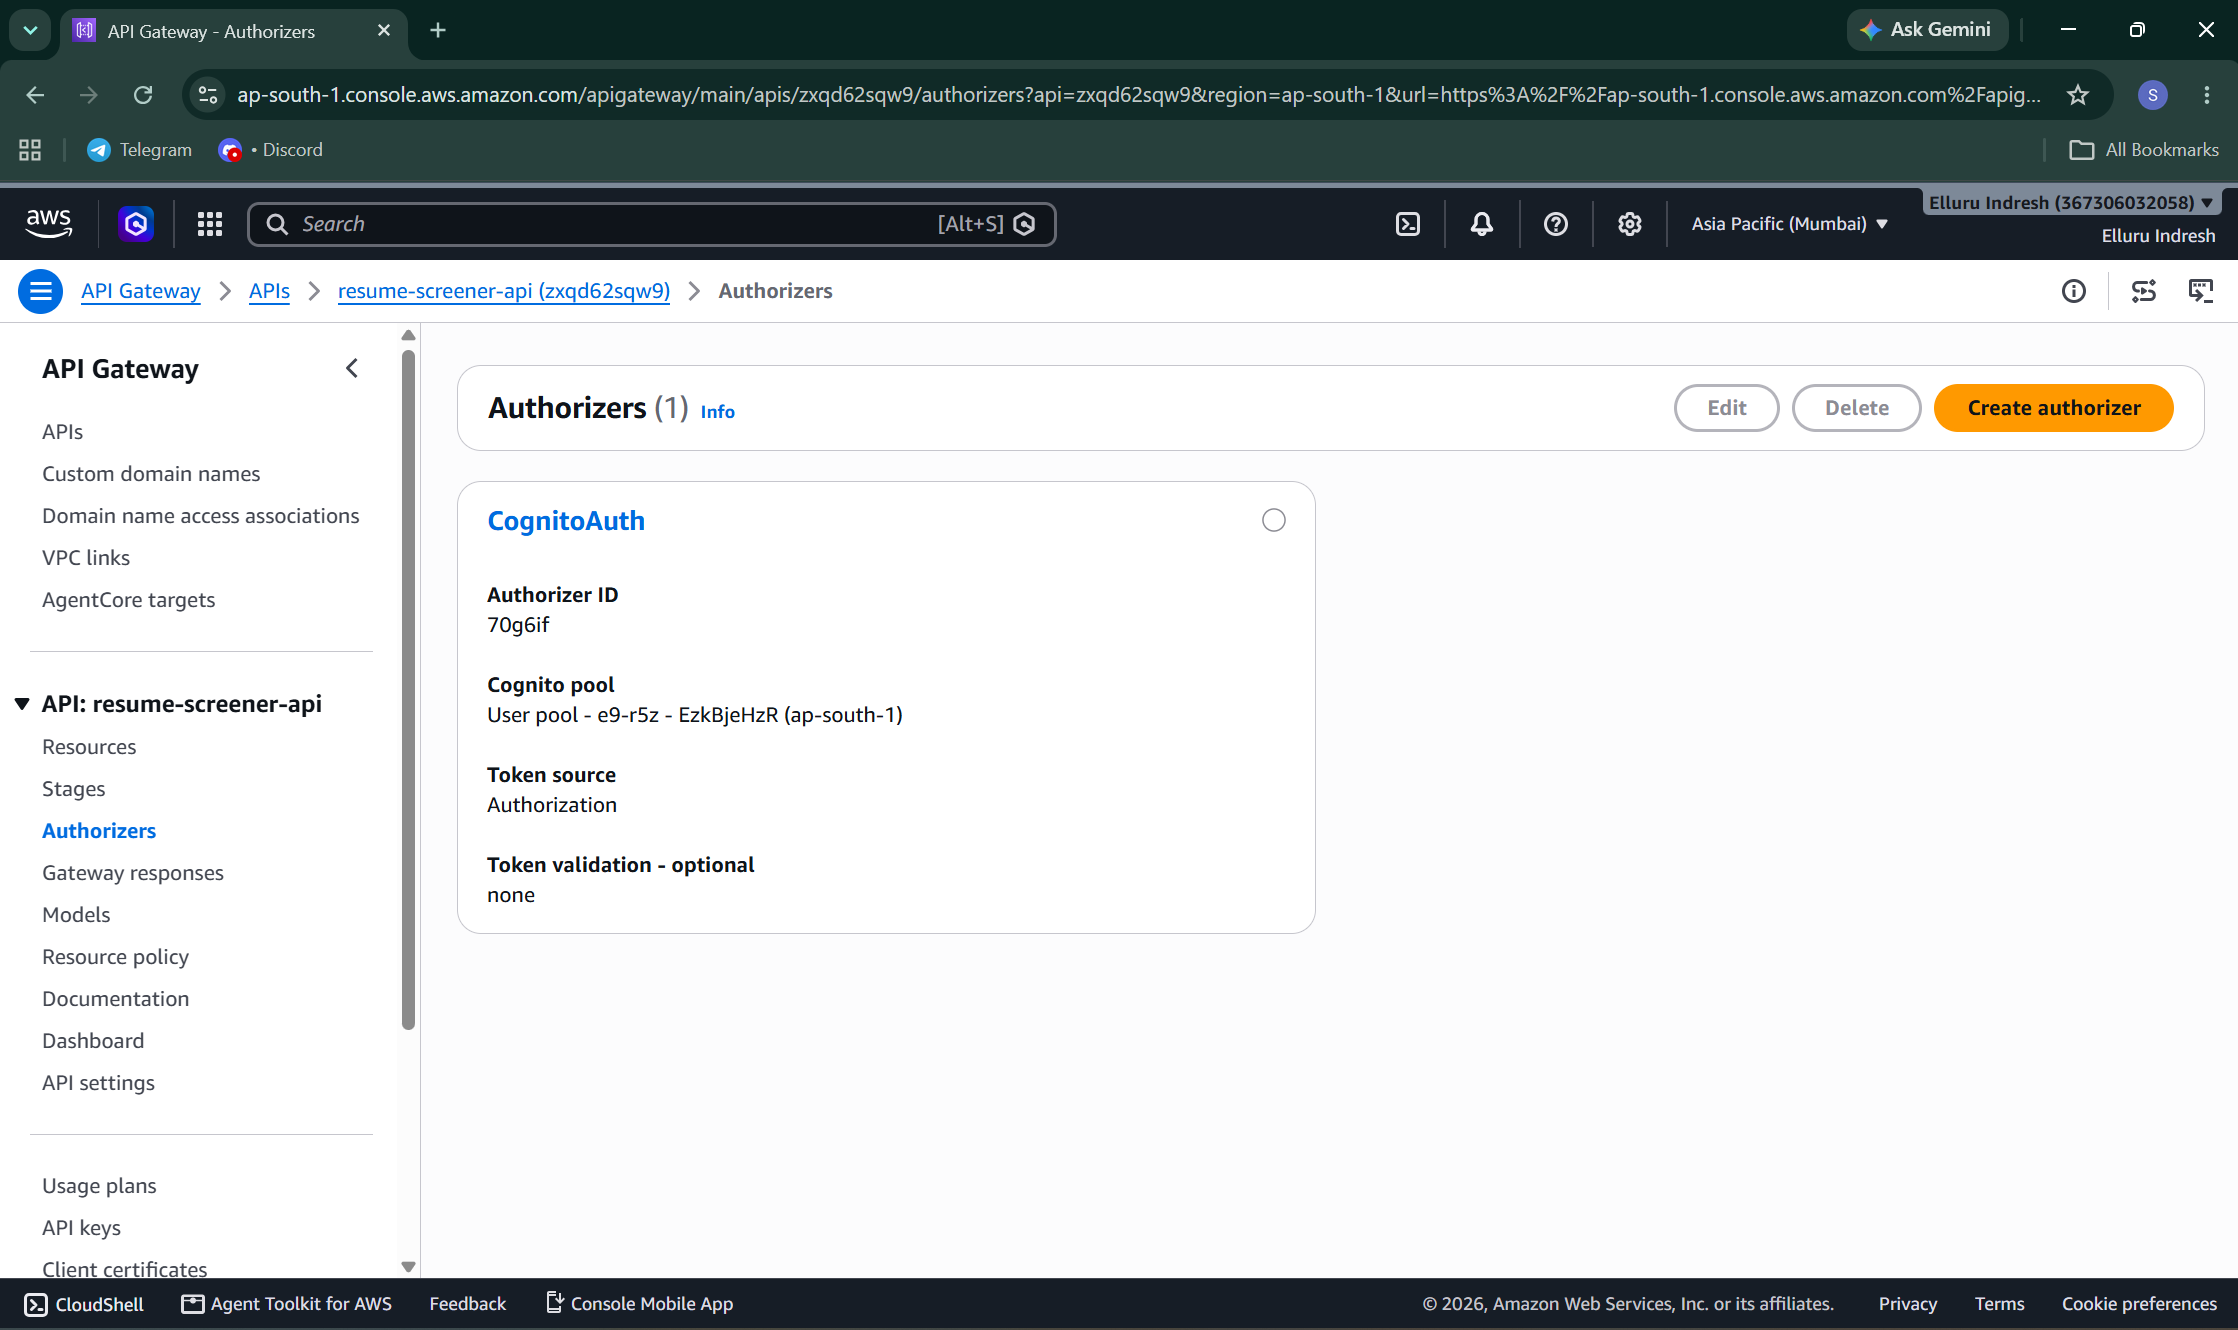
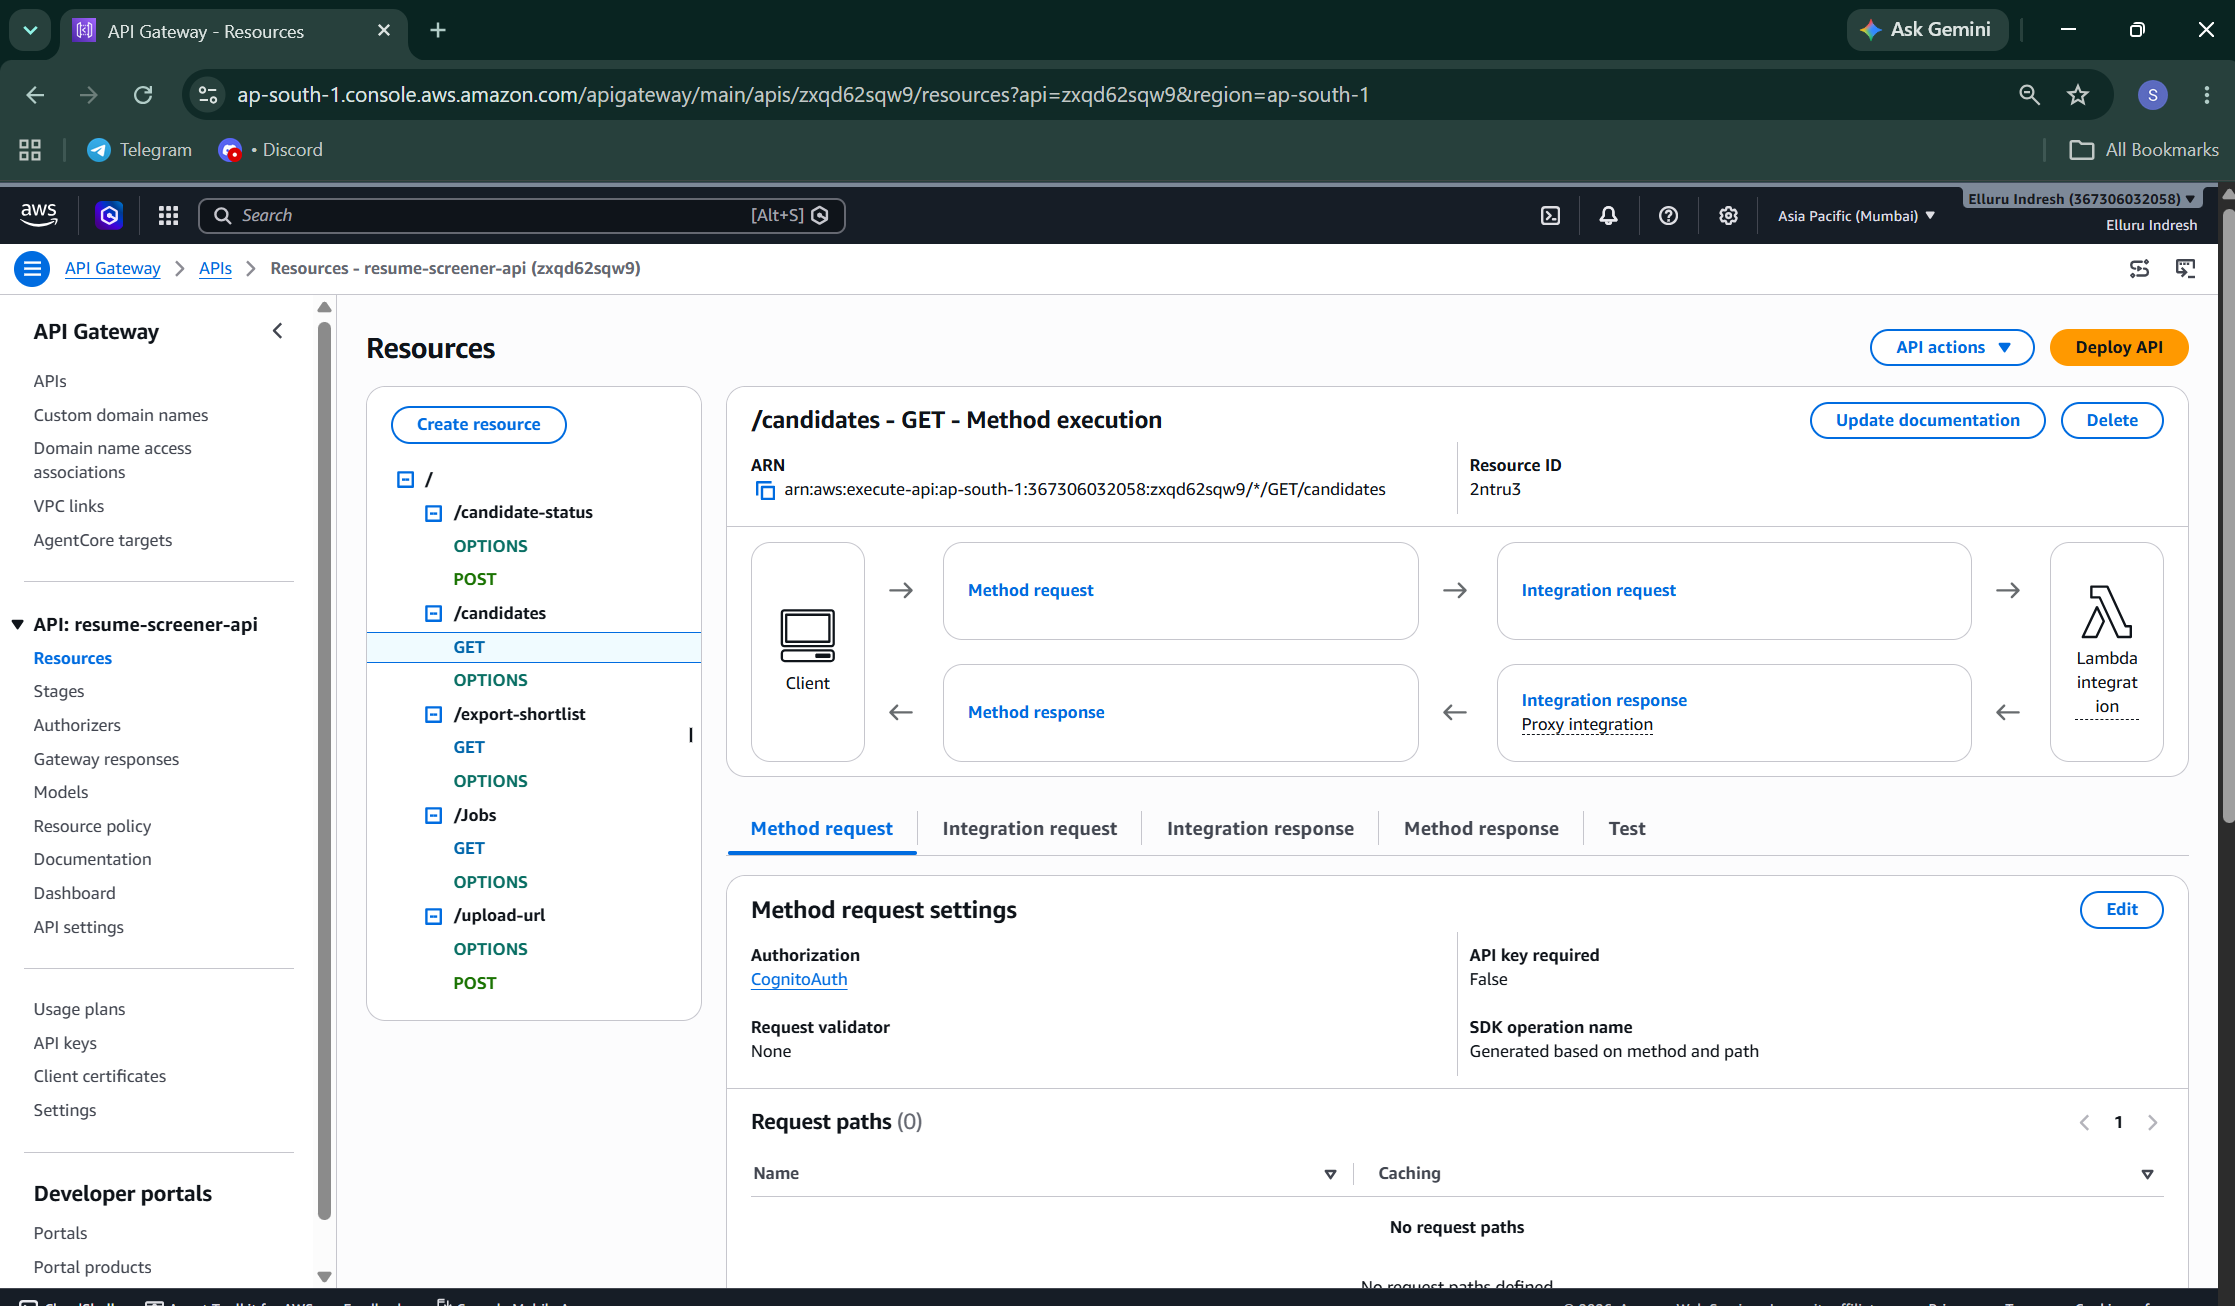
docs(security): clarify wildcard justifications and update cognito route attachment evidence

diff --git a/docs/security/IAM_COMPARISON.md b/docs/security/IAM_COMPARISON.md
@@ -239,3 +239,26 @@ The role granted workflow and database permissions via standalone, unscoped stat
     }
   ]
 }
+
+---
+
+## Wildcard (`*`) Resources Compliance Justification
+
+Per security review requirements, remaining wildcard (`*`) resource declarations across the hardened IAM policies were validated against AWS service authorization constraints:
+
+1. **Amazon Textract (`textract:DetectDocumentText`, `textract:AnalyzeDocument`):**
+   - AWS Textract does not support resource-level permissions (ARNs) for document analysis operations.
+   - Setting `"Resource": "*"` is mandatory according to AWS IAM service authorization specifications.
+
+2. **Amazon Comprehend (`comprehend:DetectEntities`, `comprehend:DetectKeyPhrases`):**
+   - Comprehend real-time analysis APIs operate in-memory on incoming payloads and do not support target resource ARNs.
+   - Setting `"Resource": "*"` is required by AWS IAM specifications.
+
+3. **Amazon EventBridge (`events:PutEvents`):**
+   - Used for asynchronous event publication across microservices.
+   - Action scope is strictly limited to event delivery without event bus or rule management permissions.
+
+4. **Applied Scoping Boundaries:**
+   - **DynamoDB:** Restricted by table name patterns (`*resume*`, `*Leave*`, `*LMS*`, `*Employee*`).
+   - **S3:** Scoped to designated project bucket prefixes (`*resume*/*`, `*certificate*/*`).
+   - **Step Functions:** Restricted to state machine execution ARNs (`arn:aws:states:*:367306032058:execution:*`).
